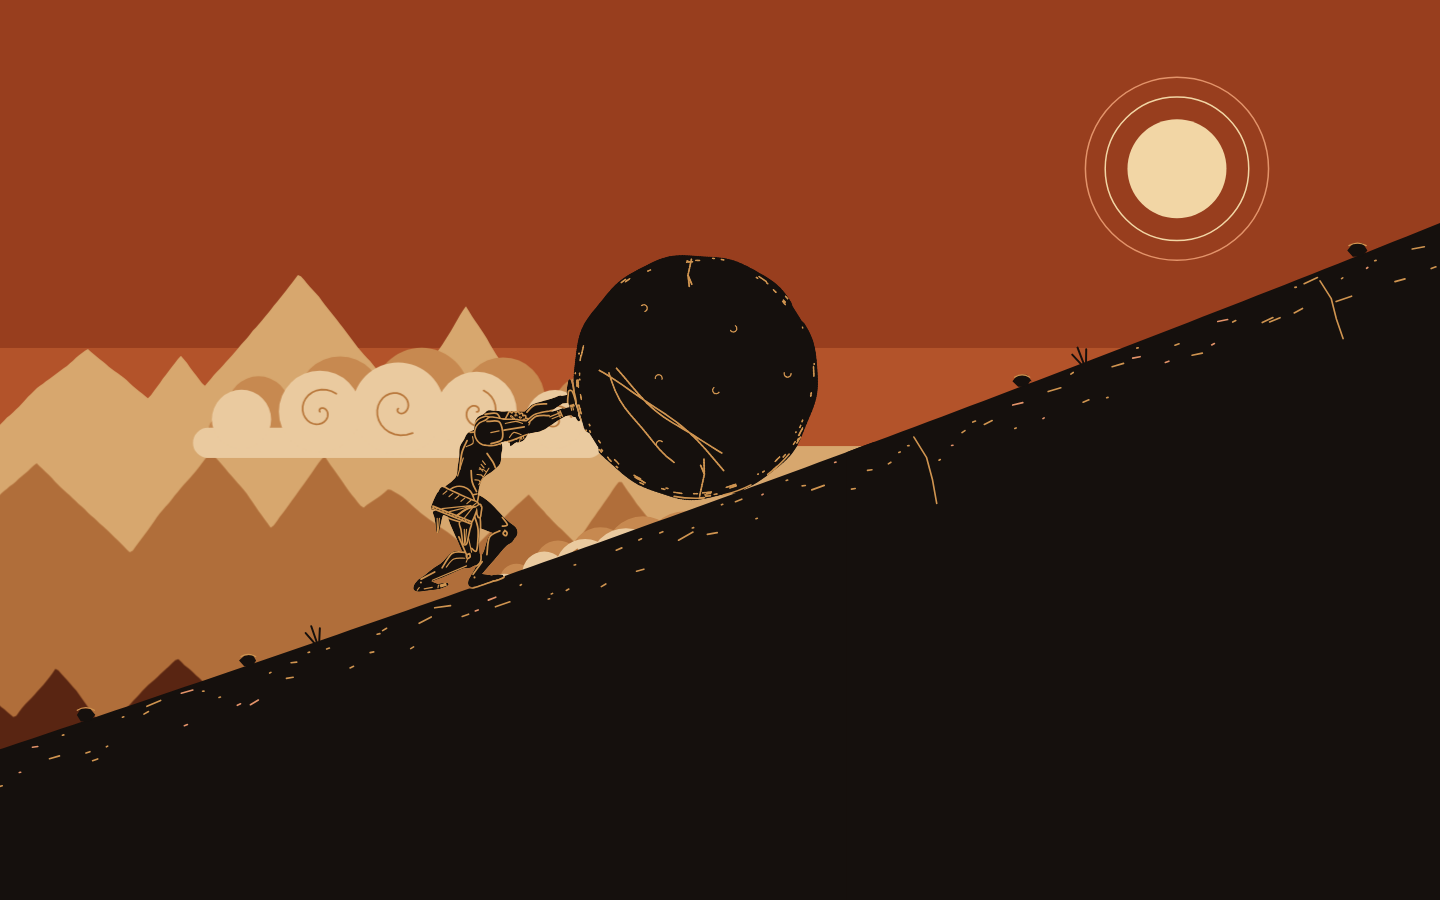
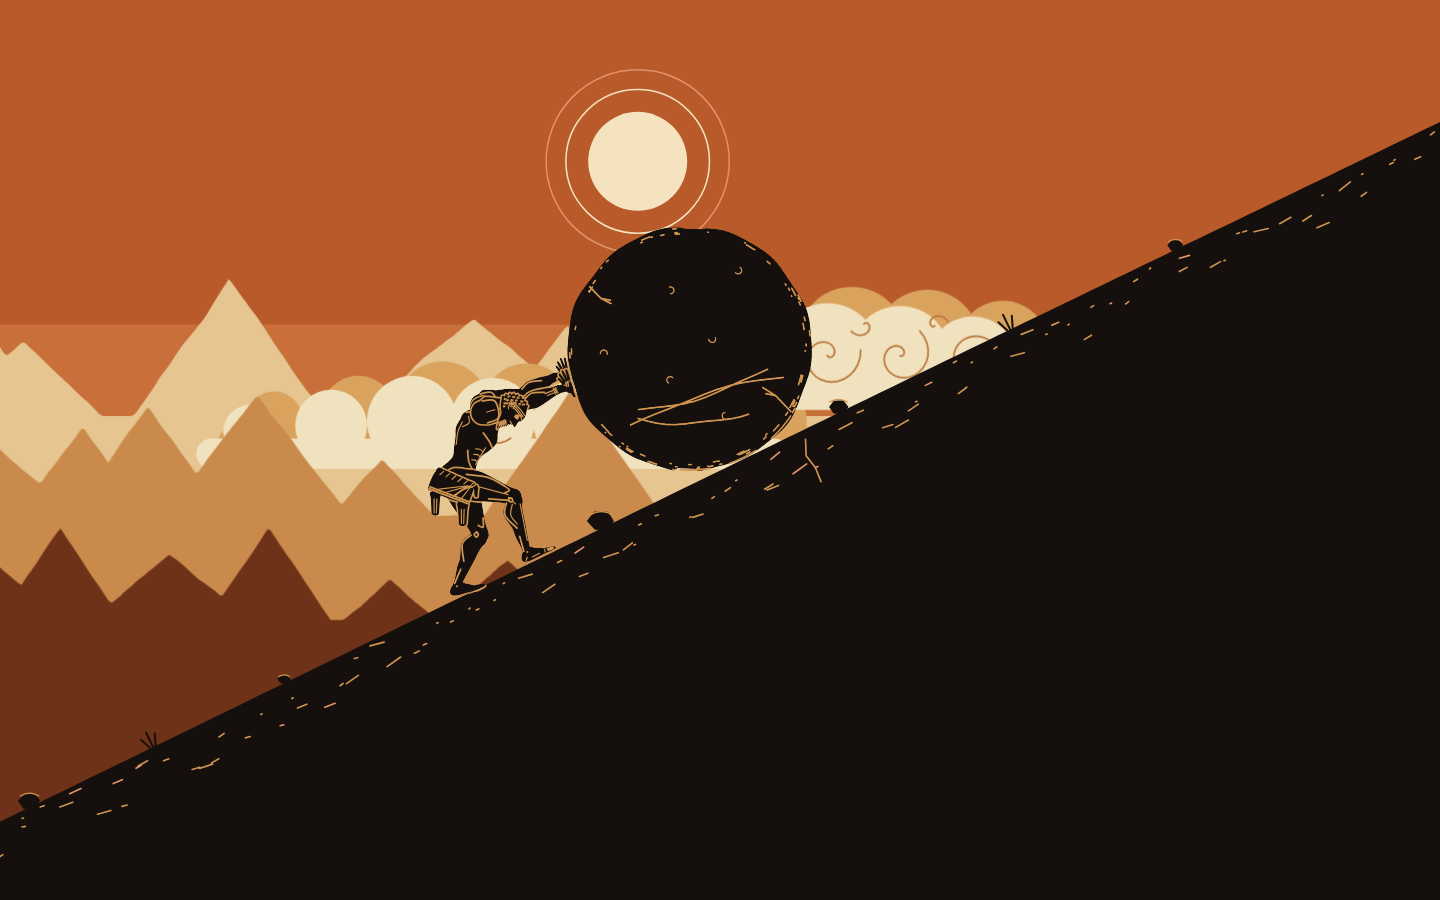
Review round 4: Resolution section and retaken screenshots
Adds the Resolution section to REVIEW_ROUND4.md: the outcome of each
finding from V1 to V13, with its commit and its regression check.

Retakes in docs/screenshots/round4/ (taken under Playwright's clock):
- focus-p0.5 (1440x900) and phone-p0.5;
- detail-4x (1440x900) and a new detail-1920-4x;
- cycle-24, with frames at u = i/24 of one step;
- a new summit-sequence sheet (every 0.5 s from the chime);
- round3-vs-round4-p0.5.

Claude-Session: https://claude.ai/code/session_01G9uuWeZfSbAx9jT1x1TUse

diff --git a/docs/REVIEW_ROUND4.md b/docs/REVIEW_ROUND4.md
@@ -302,3 +302,42 @@ Method: mask the ochre texture inside the stone, search for the screen rotation 
 - The belt, hem and leg linework are period-appropriate.
 - Summit is never visible during a block, the next climb continues, controls auto-hide and Today is unaffected (round 4 touched only `src/focus/scenes/`).
 - The spec's skill application is thorough, and the vendored skill is exactly upstream.
+
+---
+
+## Resolution (coder, fix round)
+
+Branch `round4`, commits `3126228` → `c0a5103`. 346 tests pass, `tsc` and `npm run build` are clean. Every check
+below runs on the gait's rendered frames or on the engine (stub canvas at the engine's own frame rate), not on a
+static solve.
+
+| Finding | Outcome | Commit | Regression check |
+|---|---|---|---|
+| **V1** face hidden by the arm | **Fixed.** The head (outline, face, beard, fillet, curls) is its own group, drawn last. The neck runs forward under the near arm (90°) and the head is less bowed (axis 78°), so the profile sits just below the arm. | 3126228 | `rendered.test.ts`: eye, brow, nose, moustache and beard clear of the near-arm silhouette on 97% of 3,360 frames (≥ 90%); the head is last in `ORDER`. `figure.test.ts`: the head sits 0.015 H under the arm line. |
+| **V2** rear leg never straightens | **Fixed.** The pelvis rides the pushing leg's reach at a keyed knee angle. The rear knee is held at 164° through the press and eased to 150° by toe-off. The stance knee is walked open from its toe-off angle to 164° by the step boundary, with C2 hand-overs. A soft knee limit sits inside a slightly longer reach (`LEG_MAX` 0.9985). | 3126228, 3d84fc7 | `rendered.test.ts`: every step's drive leg opens to ≥ 165°; the rear knee is ≥ 158° through the press (was 139° median, max 145°); the front knee is 98–128°. |
+| **V3** off screen ~5 s, 15 s walk-up | **Fixed.** The summit beat opens with a 400 ms cross-fade cut to the heave, two steps before the hold spot, with the camera on him. ×1.1 cadence, 0.4 s settle, 1.2 s step-through. | 0896551 | `setpieces.test.ts`, 1440×900 and 390×844: figure bounds inside the viewport on every frame; stand arrives 5.9 s after the chime (≤ 7 s). `summit-sequence.png`. |
+| **V4** hand off its wrist | **Fixed.** `reachablePalm` slides the palm around the stone toward the shoulder until the wrist is within reach; the arm's IK ends at that wrist (stand and step-through). | 0896551 | `setpieces.test.ts`: hand–wrist gap ≤ 2 px through the heave and stand. |
+| **V5** icicle flaps | **Fixed.** Taper 0.34 → 0.26 h with a rounded hem (the reviewer's change plus the cap). | 2c1a18e | `figure.test.ts`: flap end ≥ 0.2 head units wide, hem ≤ 0.12 beyond. |
+| **V6** claw hand | **Fixed.** Four fingers fanned 0/9/18/27° away from the stone from staggered roots, narrower than their spacing, each keeping its own incised outline; knuckle ticks across each root. | cc75c6b | `figure.test.ts`: neighbouring fingertips ≥ 0.1 head units apart (≈ 3 px at 1440×900). |
+| **V7** push-off over the climbing limits | **Fixed.** C2 toe-off hand-over (±0.16 of the cycle), C2 knee ramps, a softer drawn-pose knee limit, and 164° press knee for headroom. | 3d84fc7 | `engine.motion.test.ts`, engine at 30 fps, 60 s, trudge frames: pelvis \|a\| 1.48 H/s², \|j\| 11.9 H/s³, head 0.38°, elbow 0.63° per 60 Hz frame (limits 1.6, 12, 0.5, 0.8). |
+| **V8** stall after a strain beat | **Fixed.** The cadence eases up over 0.3 s (was 0.9 s). | 4223d0c, 3d84fc7 | `gait.test.ts`: ≤ 0.2 s under 0.35 v̄ after every beat (fails at 0.43 s with the old ease). |
+| **V9** ~80 px drift for ~10 s | **Fixed.** Through a strain beat the camera's feed-forward eases to 25% of the pace; the correction saturates at ±12%; the slow pull is capped. | 85f1ae7 | `engine.motion.test.ts`: max drift ≤ 49 px including the ±25 px step surge; 0–10 px from the mark 5 s after the beat. Camera outside the beats: 0.90–1.14 v̄, \|Δv\| ≤ 0.0007 H/s, jerk ≤ 0.06 H/s³. |
+| **V10** figure over budget | **Improved, not under 3 ms in headless.** No offscreen layer, no destination-in mask, no drawImage copy (alpha < 1 only); one silhouette clip; no halos on the back limbs. | 7407c43 | `figure.test.ts` checks the draw structure. Headless software raster at 1440×900 @2 with the new `__flushTiming` hook: 6.0–6.7 → 5.0 ms; detail 0.5 ms; JS-side 0.6 ms. |
+| **V11** frozen stand | **Fixed.** Slow weight shift (±0.012 H) and a look-out every 8 s (chin +6°) on top of breathing; base chin up 12°. | 0896551 | `setpieces.test.ts`: the standing pelvis moves > 2 px over 24 s. |
+| **V12** head step at strain → trudge | **Fixed** by V1/V2 (the head nods only with the lagged bob): 1.37× the local median, was 1.9×. | c0a5103 | `motion.clean.test.ts` discontinuity check. |
+| **V13** torso scratch ticks | **Fixed.** Serratus ticks and spine groove dropped; latissimus edge set in as a fine line. | c0a5103 | L3 ≥ 60 strokes; details inside their parts. |
+
+**Measured lags:** head 117 ms, beard 183 ms (≤ 3.3°), cloth tip 333 ms (swing ≤ 3°, now a sprung swing driven by
+the bob).
+
+**Retaken** in `docs/screenshots/round4/`:
+- `focus-p0.5.png` and `phone-p0.5.png`;
+- `detail-4x.png` (1440×900) and `detail-1920-4x.png`;
+- `cycle-24.png`;
+- `summit-sequence.png` (every 0.5 s from the chime);
+- `round3-vs-round4-p0.5.png`.
+
+**Deviations, still open:**
+- The figure's raster cost is 5.0 ms in headless software against the 3.0 ms budget (V10). On a GPU-composited canvas it should be far lower; not measured here.
+- The rear knee runs 158–166° through the press, against the static key pose's 170°. The extra headroom is what keeps fast catch-up steps inside the jerk limit.
+- The summit heave is now a cut to two steps (≈ 6 s total) rather than a continuous walk from the block's end, which is about 2 H from the ledge.
